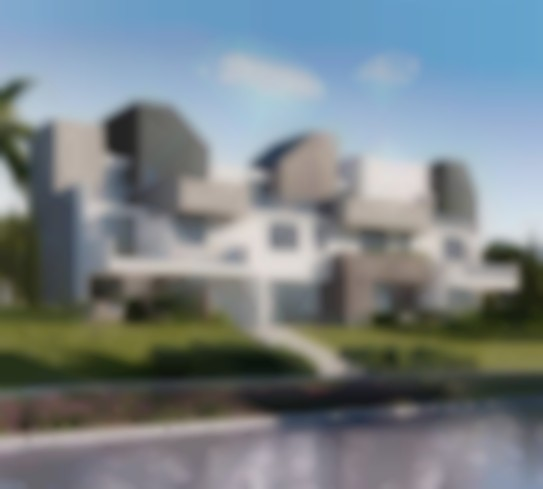
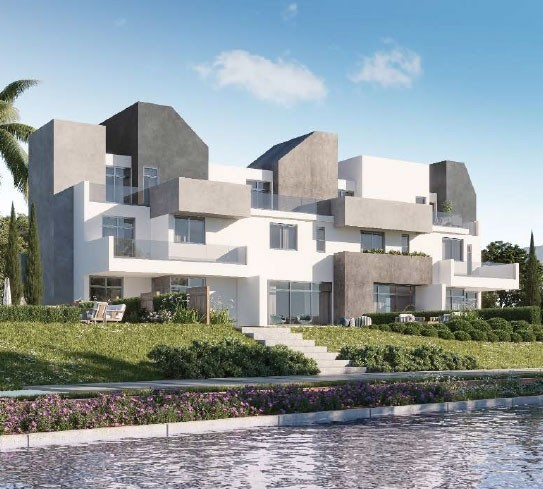
blur

diff --git a/config/blurhash.php b/config/blurhash.php
@@ -1,0 +1,31 @@
+<?php
+
+return [
+
+    /*
+     * Components picked from image x and y axis.
+     *
+     * The more components you pick, the more information
+     * is retained in the placeholder, but the longer the
+     * BlurHash string will be. Also, it doesn't always
+     * look good with too many components.
+     *
+     * Valid value is from 1 to 9.
+     */
+
+    'components-x' => 4,
+
+    'components-y' => 3,
+
+    /*
+     * Resize image max width.
+     *
+     * When encoding the image, image will resize to
+     * small one to optimize performance. It is not
+     * recommend to set the value larger than 256.
+     *
+     */
+
+    'resized-image-max-width' => 64,
+
+];

diff --git a/app/Http/Resources/FaqsResource.php b/app/Http/Resources/FaqsResource.php
@@ -23,8 +23,8 @@ class FaqsResource extends JsonResource
          if ($this->img) {
              $imgPath = Faq::POSTER_PATH . '/' . $this->img;
              $img = Image::make($imgPath);
-             $img->blur(30);
-             $img->save($imgPath);
+            //  $img->blur(30);
+             $img->save();
              $encodedImg = $img->encode('jpg');
              if ($encodedImg) {
                  $blurhash = base64_encode($encodedImg);
